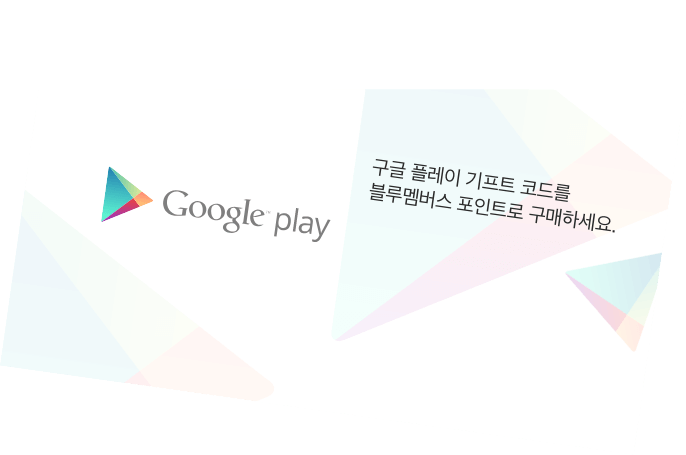
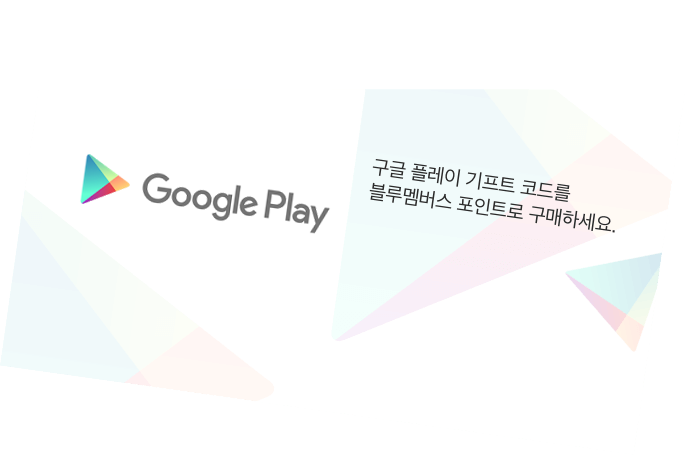
android 시스템 fontSize 문제

Changed region(s): [[0.0918, 0.3385, 0.4898, 0.5231]]

diff --git a/wallet.html b/wallet.html
@@ -69,23 +69,35 @@
                 </a>
             </li>
 
-            <li v-show="onReady" class="article article_3" :class="{show_motion:onReady}">
-                <a class="bg_box" :href="brandUrllist[2].link_url">
-                    <img :src="brandUrllist[2].image_url" class="img_shop_3">
-                </a>
-            </li>
+            <!--<li v-show="onReady" class="article article_3" :class="{show_motion:onReady}">-->
+                <!--<a class="bg_box" :href="brandUrllist[2].link_url">-->
+                    <!--<img :src="brandUrllist[2].image_url" class="img_shop_3">-->
+                <!--</a>-->
+            <!--</li>-->
 
             <li v-show="onReady" class="article article_4" :class="{show_motion:onReady}">
-                <a class="bg_box" :href="brandUrllist[3].link_url">
-                    <img :src="brandUrllist[3].image_url" class="img_shop_4"/>
-                </a>
+                <!--<a class="bg_box" :href="brandUrllist[3].link_url">-->
+                    <!--<img :src="brandUrllist[3].image_url" class="img_shop_4"/>-->
+                <!--</a>-->
             </li>
 
             <div class="article bottom">
-                <p class="h2">주요 카테고리</p>
+                <!--<p class="h2">주요 카테고리</p>-->
             </div>
             <div class="category">
-                <ul style="white-space: nowrap; overflow-x: auto; overflow-y: hidden; display: flex; ">
+
+                <div style="font-size: 0.390625rem;
+                            font-weight: bold;
+                            color: #fff;
+                            margin: 0 0.64375rem;
+                            padding-bottom: 0.403125rem;
+                            border-bottom: 1px solid #fff;
+                        ">
+                    <!--주요 카테고리-->
+                    혜택
+                </div>
+
+                <ul style="white-space: nowrap; overflow-x: auto; overflow-y: hidden; display: inline-block; text-align: center; ">
 
                     <li v-for="item in bizlist ">
                         <a href="" :href="item.url">

diff --git a/css/wallet.css b/css/wallet.css
@@ -23,7 +23,9 @@
   .container .section .show_motion:nth-child(2) {
     animation: showAnimate .6s ease-out; }
   .container .section .show_motion:nth-child(3) {
-    animation: showAnimate .7s ease-out; }
+    animation: showAnimate .7s ease-out;
+    visibility: hidden;
+  }
   .container .section .show_motion:nth-child(4) {
     animation: showAnimate .8s ease-out; }
 @keyframes showAnimate {
@@ -90,12 +92,17 @@
       width: 11.0625rem; }
   .container .bottom {
     width: 100%;
-    top: -8.53125rem;
+    /*top: -8.53125rem;*/
+    /*left: -0.59375rem;*/
+    /*width: 11.25rem;*/
+    /*height: 1.796875rem;*/
+    top: -10.53125rem;
     left: -0.59375rem;
     width: 11.25rem;
-    height: 1.796875rem;
+    height: 4.796875rem;
     background-color: #00498C;
-    transform: rotate(9deg); }
+    transform: rotate(-8deg);
+  }
     .container .bottom .h2 {
       padding-left: 1.46875rem;
       padding-top: 0.4375rem;
@@ -108,15 +115,21 @@
     z-index: 10;
     width: 100%;
     background-color: #00498C;
-    margin-top: -9.375rem;
-    padding-bottom: 0.46875rem; }
+    /*margin-top: -9.375rem;*/
+    margin-top: -14.175rem;
+    padding-bottom: 0.46875rem;
+  }
     .container .category ul {
       padding-top: 0.203125rem;
-      padding-left: 0.84375rem; }
+      padding-left: 0.64375rem;
+      padding-right: 0.64375rem;
+    }
       .container .category ul li {
         float: left;
-        width: 1.6171875rem;
-        margin-right: 0.5546875rem; }
+        /*width: 1.6171875rem;*/
+        /*margin-right: 0.5546875rem;*/
+        width: 25%;
+      }
       .container .category ul a {
         display: inline-block;
         width: 100%;

diff --git a/js/wallet.js b/js/wallet.js
@@ -326,7 +326,8 @@ new Vue({
                     ,'?'
                     ,'custNo=' + that.key_custNo
                     ,'&'
-                    ,'brandCd=V00A012B011'
+                    //,'brandCd=V00A012B011'  //상용
+                    ,'brandCd=V00A002B301'  //개발
                     ,'&'
                     ,'uid=' + that.key_uid
                 ].join('')
@@ -341,9 +342,8 @@ new Vue({
                     ,'?'
                     ,'custNo=' + that.key_custNo
                     ,'&'
-                    ,'brandCd=V00A003B603'
-                    //,'brandCd=V00A002B302'
-
+                    //,'brandCd=V00A012B012'  //상용
+                    ,'brandCd=V00A002B302'  //개발
                     ,'&'
                     ,'uid=' + that.key_uid
                 ].join('')
@@ -358,7 +358,8 @@ new Vue({
                     ,'?'
                     ,'custNo=' + that.key_custNo
                     ,'&'
-                    ,'brandCd=V00A012B003'
+                    //,'brandCd=V00A012B003'  //상용
+                    ,'brandCd=V00A044B001'  //개발
                     ,'&'
                     ,'uid=' + that.key_uid
                 ].join('')
@@ -373,7 +374,8 @@ new Vue({
                     ,'?'
                     ,'custNo=' + that.key_custNo
                     ,'&'
-                    ,'brandCd=V00A003B371'
+                    //,'brandCd=V00A003B371'  //상용
+                    ,'brandCd=V00A044B002'  //개발
                     ,'&'
                     ,'uid=' + that.key_uid
                 ].join('')

diff --git a/brand/googleplay/wallet_submain_2.html b/brand/googleplay/wallet_submain_2.html
@@ -42,7 +42,7 @@
                     </div>
                     <p class="h3">
                         블루멤버스 회원에게만 제공하는 특별한 혜택!
-                        구글플레이 기프트코드를 블루멤버스 포인트로
+                        Google Play 기프트 코드를 블루멤버스 포인트로
                         구매하세요.
                     </p>
                     <div class="shop_info shop_intro">
@@ -67,7 +67,7 @@
                             <!--</tbody>-->
                         <!--</table>-->
                         <p>
-                            Google play 기프트코드 5,000원권, 10,000원권,30,000원권을 <br/> 블루멤버스 포인트로 구매하실 수 있습니다.
+                            Google Play 기프트 코드 5,000원권, 10,000원권,30,000원권을 <br/> 블루멤버스 포인트로 구매하실 수 있습니다.
                         </p>
                     </div>
                 </div>

diff --git a/css/utils.css b/css/utils.css
@@ -24,7 +24,7 @@
 
  }
  .loading_sub {
-     background-image: url('../images/icon_loading.png');
+     background-image: url('../../../github/blue_menbers/images/icon_loading.png');
      background-repeat: no-repeat;
      background-size: 50px 50px;
      background-position: 50% center;
@@ -113,6 +113,9 @@
 
 .container .category ul li:last-child{
 
-    padding-right: 0.84375rem!important;
+    /*padding-right: 0.84375rem!important;*/
 
 }
+
+ #echoss_icon_stamp_no_input {font-size: 0.8em !important;}
+#echoss_icon_popup > div > div > p {font-size: 15px !important;}

diff --git a/brand/jejuair/use_guide.html b/brand/jejuair/use_guide.html
@@ -19,10 +19,13 @@
             </a>
             <p class="title">쿠폰사용안내</p>
         </div>
-        <div class="section">
+        <div class="section" style="overflow: hidden;">
             <img style="width:100%" src="images/CouponWallet_jejuAIR_couponhow.png">
         </div> <!-- end of .section -->
     </div><!-- end of .container_box -->
 </div>
+
+<script type="text/javascript" src="../../js/lib/utils.js"></script>
+<script type="text/javascript" src="js/wallet_submain_1.js" ></script>
 </body>
 </html>

diff --git a/banner/banner_details1.html b/banner/banner_details1.html
@@ -17,7 +17,7 @@
             <a class="btn_back flex_center" :href="appLink">
                 <img src="../images/icon_back.png"/>
             </a>
-            <p class="title">준오헤어 할안혜택 소개</p>
+            <p class="title">준오헤어 할인혜택 소개</p>
         </div>
         <div class="section" style="overflow: hidden;">
             <img style="width:100%" :src="bannerDetailSrc">

diff --git a/js/lib/utils.js b/js/lib/utils.js
@@ -323,7 +323,8 @@ utils.install = function( Vue ){
 
         }
 
-        echoss.Icon.setEchossIconData({
+        //echoss.Icon.setEchossIconData({
+        echoss.Icon.setStampData({
             aprvData    : _data,
             //otpGbn,chCd,custNo,brdId,usePoint
             funcCd      : "SBLTM",

diff --git a/coupon_details.html b/coupon_details.html
@@ -11,6 +11,8 @@
     <link href="stampEffect/stampEffect.css" rel="stylesheet" />
     <script type="text/javascript" src="js/lib/vue.min.js"></script>
     <script type="text/javascript" src="js/px2rem.js"></script>
+
+
 </head>
 <body>
 <div class="container">
